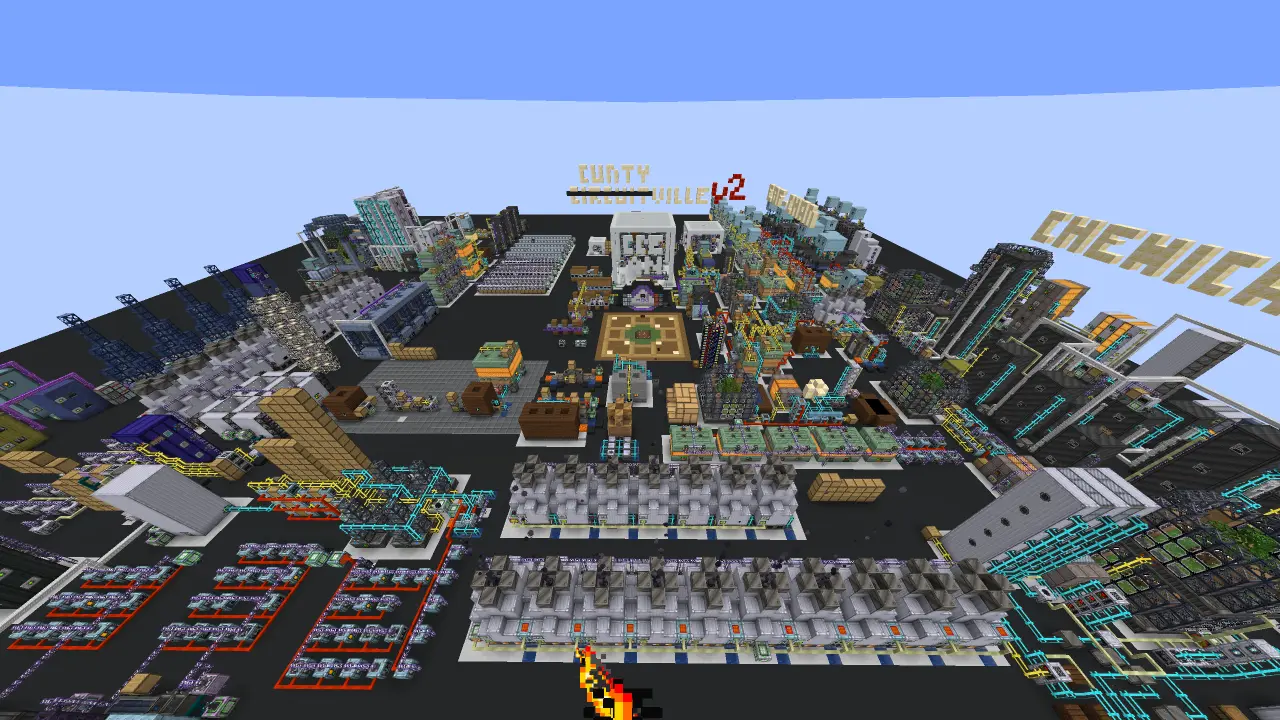
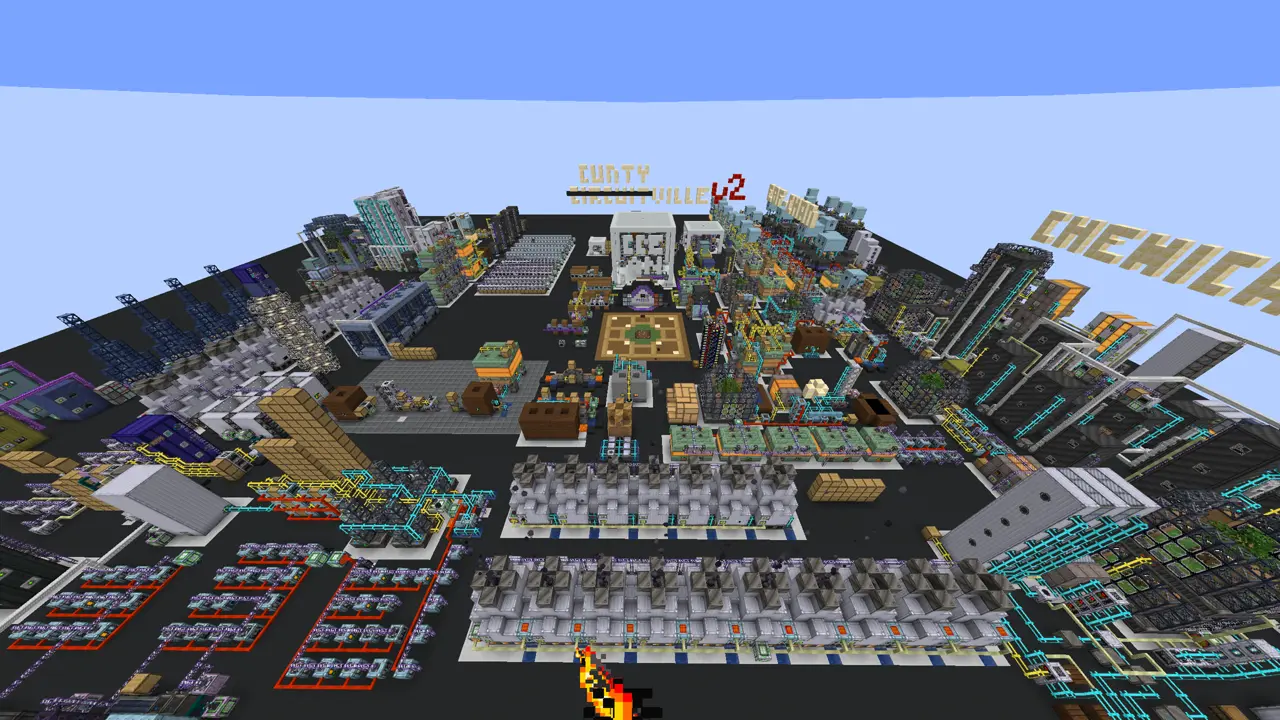
write startech first blog post

diff --git a/src/routes/blog/(page)/star-technology/initial-progress/+page.svelte b/src/routes/blog/(page)/star-technology/initial-progress/+page.svelte
@@ -2,8 +2,137 @@
 	import type { Metadata } from "$lib/blogIndex";
 
 	export const metadata: Metadata = {
-		title: "Star Technology Initial Progress",
+		title: "Star Technology Initial Progress (LV-IV)",
 		date: new Date("2026-07-14T20:00:01.000Z"),
 		parent: "star-technology"
 	};
 </script>
+
+<script lang="ts">
+	import imgStart from "$lib/assets/blog/star-technology/initial-progress/the-start.webp";
+	import imgNetwork from "$lib/assets/blog/star-technology/initial-progress/storage-network.webp";
+	import imgSieves from "$lib/assets/blog/star-technology/initial-progress/auto-sieves.webp";
+	import imgTubes from "$lib/assets/blog/star-technology/initial-progress/tubes.webp";
+	import imgCube from "$lib/assets/blog/star-technology/initial-progress/chip-cube.webp";
+	import imgOres from "$lib/assets/blog/star-technology/initial-progress/upgraded-ores.webp";
+	import imgUnderside from "$lib/assets/blog/star-technology/initial-progress/underside.webp";
+	import imgCircuitville from "$lib/assets/blog/star-technology/initial-progress/circuitville.webp";
+	import imgChemical from "$lib/assets/blog/star-technology/initial-progress/chemical-city.webp";
+	import imgIV from "$lib/assets/blog/star-technology/initial-progress/iv-base.webp";
+</script>
+
+<p>
+	I didn't think to start writing this blog until we already reached LuV (6 tiers in; the ones
+	before are LV, MV, HV, EV, IV). There is already a significant amount of progress to show off.
+	Since I basically never took any screenshots up to this point, I'll be using some from Mazerak
+	that I grabbed from our Discord chat.
+</p>
+
+<hr />
+
+<p>
+	We began our playthrough on June 21, 2026. I originally tried out the hard mode for an hour before
+	realizing it was much less complete than the normal mode, so we switched over.
+</p>
+
+<figure>
+	<img class="landscape" src={imgStart} alt="Very small base with sieves and a coke oven" />
+	<figcaption>"time capsule" -Mazerak (June 21)</figcaption>
+</figure>
+
+<p>
+	Nothing too special happened at the start. Lots of manual crafting going on. In general, I tend to
+	work on progression while Mazerak works on automating stuff. Maz automated some Create crushers
+	while I set up our first few blast furnaces.
+</p>
+
+<figure>
+	<img class="landscape" src={imgNetwork} alt="Center shot of the expanded base" />
+	<figcaption>LV machines and storage network (June 22)</figcaption>
+</figure>
+
+<p>
+	We got to LV pretty quickly. Maz set up Simple Storage and decorated the base a bit while I
+	crafted several LV machines. I've seen people do a lot of Create automation in their playthroughs,
+	but the early game progresses fast enough that it didn't seem worth it.
+</p>
+
+<figure>
+	<img class="landscape" src={imgSieves} alt="Drawers with various sieved materials" />
+	<figcaption>Basic large sieve automation (June 22)</figcaption>
+</figure>
+
+<p>
+	No screenshots were taken for a while after this, but we kept progressing. MV, then HV, with
+	various small automations for rubber, chemicals, steel, ore processing, etc. Maz worked on getting
+	the ME storage system online, while I improved our circuit production. (We're keeping ME channels
+	unlimited for this playthrough, since both of us have dealt with limited channels before and we
+	don't think it's fun.)
+</p>
+
+<figure>
+	<img
+		class="landscape"
+		src={imgTubes}
+		alt="Early HV base with Create pneumatic tubes everywhere"
+	/>
+	<figcaption>Mazerak discovers pneumatic tubes (June 28)</figcaption>
+</figure>
+
+As you can see, our base is just a lawnbase. I decided that I didn't have the motivation for
+building during this modpack. I also think highly compressed lawnbases can look pretty cool.
+
+<figure>
+	<img class="landscape" src={imgOres} alt="Several ore processing factories in a row" />
+	<figcaption>Expanded ore processing setup (June 29)</figcaption>
+</figure>
+
+<figure>
+	<img class="landscape" src={imgCube} alt="Tiny cleanroom for making wafers" />
+	<figcaption>Trust me, I tried to convince him that cleanrooms are cheap (July 2)</figcaption>
+</figure>
+
+<figure>
+	<img class="landscape" src={imgUnderside} alt="Underside of platform with snaking cables" />
+	<figcaption>Pre-Flux Networks view of all the cables underneath (July 2)</figcaption>
+</figure>
+
+<p>
+	Power has pretty consistently been a problem throughout the playthrough. We spent quite a while
+	relying on upgrading lapidary dynamos for our power. Eventually we switched to nitrobenzene, but
+	it's been tricky to scale up. At the time of writing, we have built <i>four</i> different nitrobenzene
+	setups.
+</p>
+
+<figure>
+	<img class="landscape" src={imgCircuitville} alt="Circuit automation" />
+	<figcaption>Circuitville! Automatic ULV through HV circuits. (July 2)</figcaption>
+</figure>
+
+<p>
+	We reached EV, and the pack's difficulty began to increase. I started working on platline while
+	Mazerak improved our AE2 infrastructure.
+</p>
+
+<figure>
+	<img class="landscape" src={imgChemical} alt="Lots of chemical reactors" />
+	<figcaption>Chemical City, with improved production of plastics and epoxy. (July 7)</figcaption>
+</figure>
+
+<p>
+	Again, I don't have many screenshots of this era, but there was plenty to do. We upgraded
+	production of lots of chemicals and alloys, fixed our power, and passived a variety of items.
+	Finally, we reached the end of the Automation Age chapter on July 10, 2026.
+</p>
+
+<figure>
+	<img class="full-width" src={imgIV} alt="" />
+	<figcaption>Base overview at the end of IV</figcaption>
+</figure>
+
+<hr />
+
+<p>
+	The next post will cover our progress to the end of LuV, and it will hopefully be more detailed
+	because I actually have this blog in mind.
+</p>

diff --git a/src/routes/blog/(page)/star-technology/+page.svelte b/src/routes/blog/(page)/star-technology/+page.svelte
@@ -19,7 +19,8 @@
 	Minecraft modpack focused on technology and progression. If you've ever heard of
 	<a href="https://www.gtnewhorizons.com/">GregTech New Horizons</a>, Star Technology is essentially
 	an easier, more modern, and more streamlined version. So far, I consider this to be the single
-	most enjoyable Minecraft modpack I've ever played.
+	most enjoyable Minecraft modpack I've ever played, though it's definitely meant for a certain kind
+	of person.
 </p>
 <p>
 	This series of blog posts is meant to be a journal of my progress through the pack. I'm planning
@@ -28,9 +29,20 @@
 </p>
 
 <hr />
-<h1>
-	<a href="/blog/star-technology/initial-progress">Initial progress (to mid-LuV)</a>
-</h1>
-<a href="/blog/star-technology/initial-progress">
-	<img class="fullwidth" src={imgInitialOverview} alt="Screenshot of initial progress" />
-</a>
+
+<nav>
+	<h2>
+		<a href="/blog/star-technology/initial-progress">Initial progress (to mid-LuV)</a>
+	</h2>
+	<a href="/blog/star-technology/initial-progress">
+		<img class="full-width" src={imgInitialOverview} alt="Navigate to initial progress blog post" />
+	</a>
+</nav>
+
+<style>
+	nav {
+		display: flex;
+		flex-direction: column;
+		gap: 1em;
+	}
+</style>

diff --git a/src/lib/css/blog.css b/src/lib/css/blog.css
@@ -19,7 +19,7 @@ img {
 	align-self: center;
 }
 
-img.fullwidth {
+img.full-width {
 	width: 100%;
 	height: auto;
 }